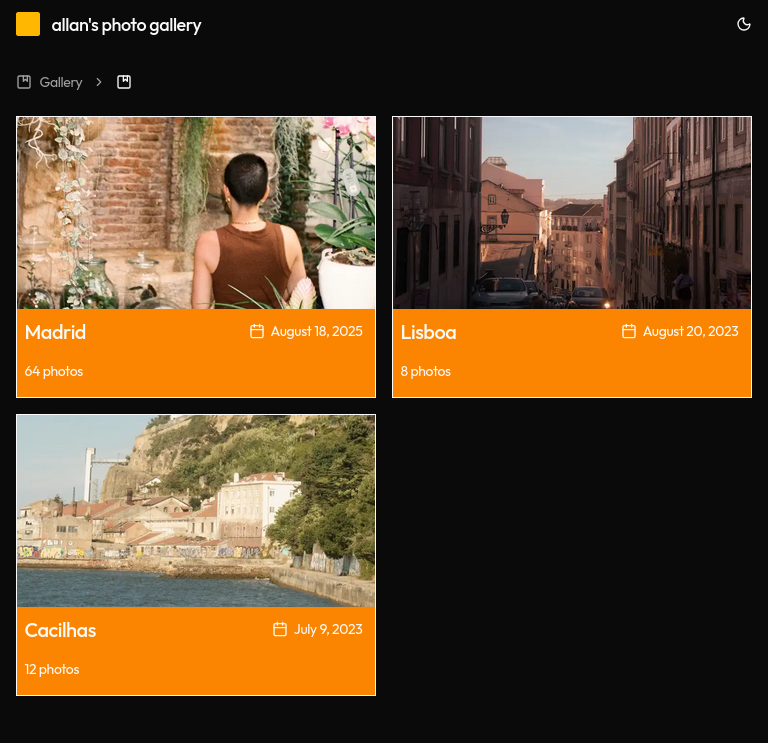
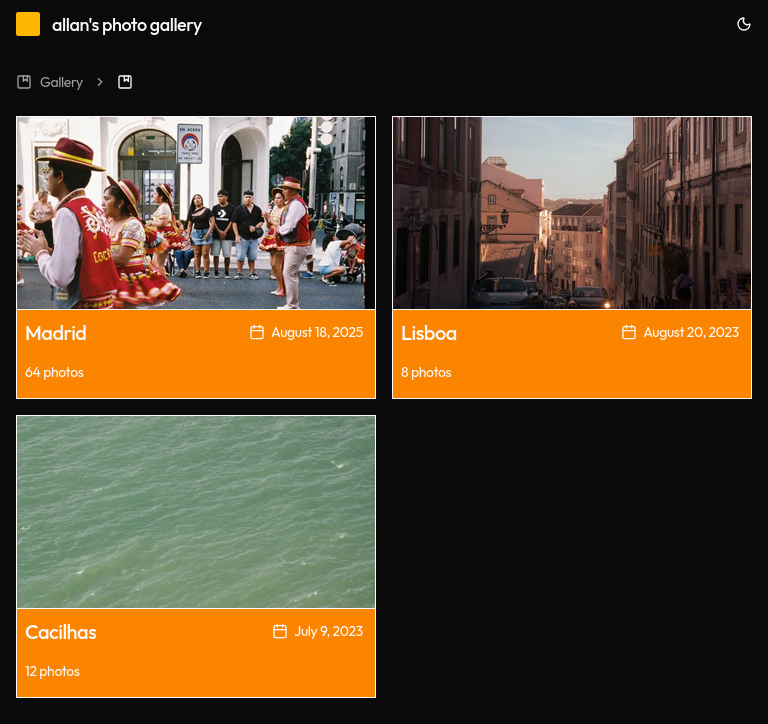
feat: allow user defined album cover photo - minor fixes

diff --git a/src/lib/albums.ts b/src/lib/albums.ts
@@ -10,15 +10,23 @@ export interface Album {
   count: number
 }
 
-export function readAlbumsMeta(): { name: string; pubDate: string }[] {
+export function readAlbumsMeta(): {
+  name: string
+  pubDate: string
+  cover?: string
+}[] {
   const { albums } = parse(
     readFileSync('./src/content/gallery/albums.toml', 'utf-8'),
-  ) as { albums: { name: string; pubDate: string }[] }
+  ) as { albums: { name: string; pubDate: string; cover?: string }[] }
   return albums
 }
 
 export async function getAlbums(): Promise<Album[]> {
   const entries = await getCollection('albums')
+  const meta = readAlbumsMeta()
+  const coverOverride = new Map(
+    meta.filter((a) => a.cover).map((a) => [a.name, a.cover!]),
+  )
 
   const albumMap = new Map<string, typeof entries>()
   for (const entry of entries) {
@@ -29,7 +37,10 @@ export async function getAlbums(): Promise<Album[]> {
 
   return [...albumMap.entries()]
     .map(([name, photos]) => {
-      const cover = photos[Math.floor(Math.random() * photos.length)]
+      const specified = coverOverride.get(name)
+      const cover =
+        (specified && photos.find((p) => p.data.title === specified)) ||
+        photos[Math.floor(Math.random() * photos.length)]
       return {
         name,
         pubDate: photos[0].data.pubDate,

diff --git a/README.md b/README.md
@@ -14,16 +14,16 @@ A personal photo gallery template built with [Astro](https://astro.build/) and [
 - **Masonry grid with lightbox.** Photos are distributed into columns and open in a fullscreen viewer powered by [Fancybox](https://fancyapps.com/fancybox/).
 - **Optimized image delivery.** Photos are served as AVIF from R2 via a public custom domain, with Astro's `<Image />` handling lazy loading and sizing.
 - **Incremental builds.** The R2 content loader skips photos that haven't changed since the last build, keeping rebuild times fast.
+- **Build-time image cache.** Optimized images are stored in R2 under a `_cache/` prefix. After a cold first build, subsequent builds skip Sharp re-encoding entirely. Image optimization time scales with the number of new or changed photos only.
 - **Dark mode.** Theme toggle included, persisted via `data-theme` attribute.
 
 ![Album detail view](./public/demo/main-01.png)
-
 
 ## Getting Started
 
 ### 1. Set up Cloudflare R2
 
-Create an R2 bucket and an API token with read access. Enable a public custom domain on the bucket for image delivery.
+Create an R2 bucket and an API token with read and write access. Enable a public custom domain on the bucket for image delivery.
 
 ### 2. Configure environment variables
 
